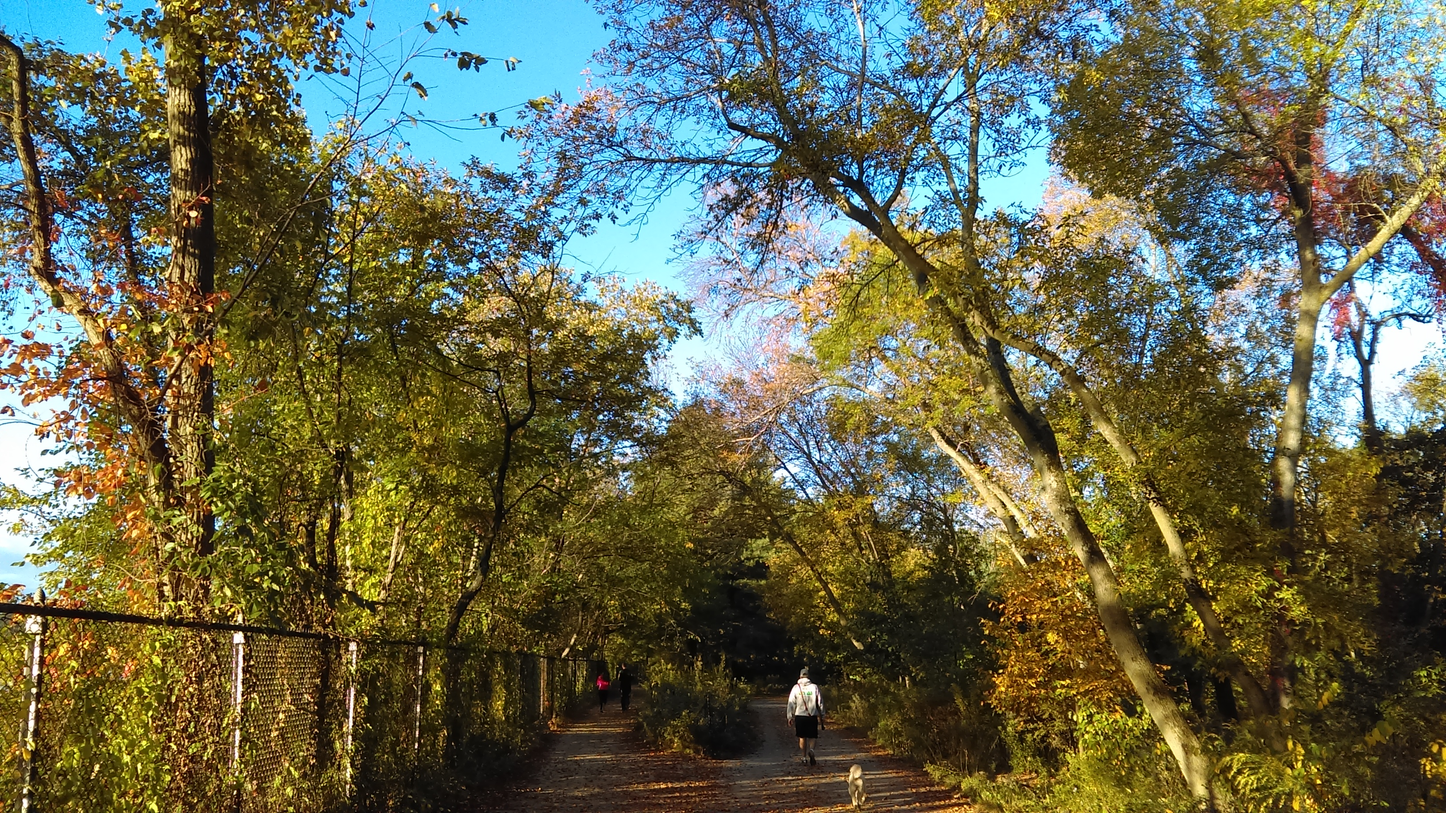
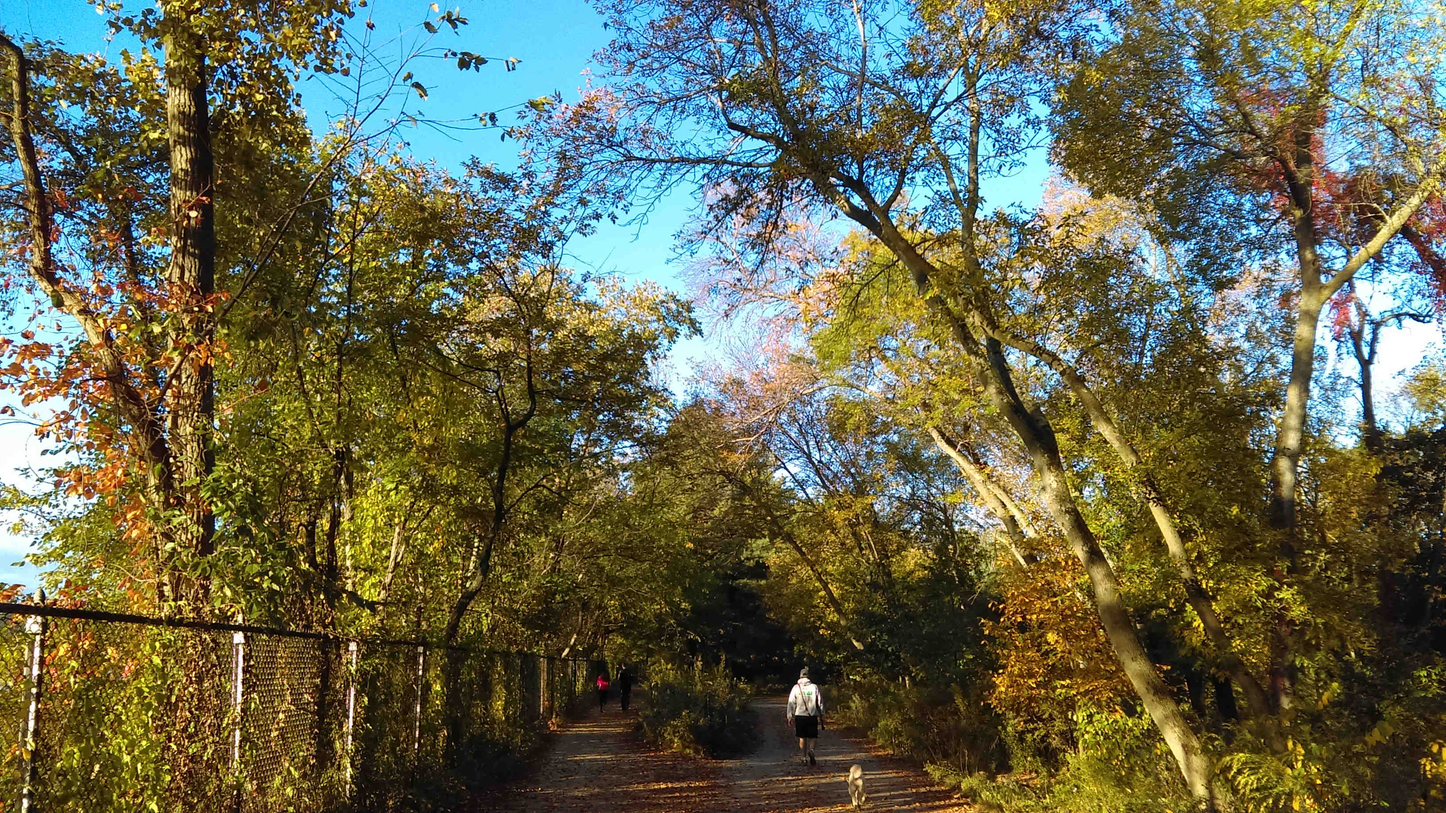
Shrink image sizes.

diff --git a/index.html b/index.html
@@ -16,8 +16,8 @@
 		<link rel="shortcut icon" href="images/favicon.ico">
 
 		<!-- Web Fonts -->
-		<link href='http://fonts.googleapis.com/css?family=Open+Sans:400italic,700italic,400,700,300&amp;subset=latin,latin-ext' rel='stylesheet' type='text/css'>
-		<link href='http://fonts.googleapis.com/css?family=Raleway:700,400,300' rel='stylesheet' type='text/css'>
+<!--		<link href='http://fonts.googleapis.com/css?family=Open+Sans:400italic,700italic,400,700,300&amp;subset=latin,latin-ext' rel='stylesheet' type='text/css'>
+		<link href='http://fonts.googleapis.com/css?family=Raleway:700,400,300' rel='stylesheet' type='text/css'> -->
 
 		<!-- Bootstrap core CSS -->
 		<link href="bootstrap/css/bootstrap.css" rel="stylesheet">
@@ -146,7 +146,7 @@
 						<div class="space"></div>
 						<div class="row">
 							<div class="col-md-4">
-								<img src="images/tollben.png" alt="">
+								<img src="images/tollben.jpg" alt="">
 								<div class="space"></div>
 							</div>
 							<div class="col-md-8">
